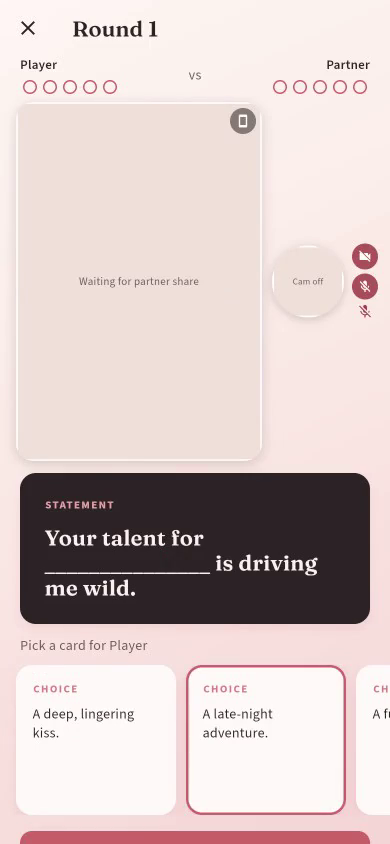
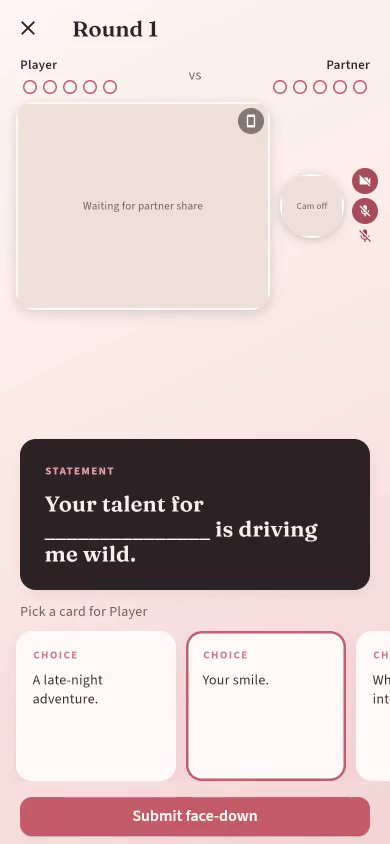
Cap expanded phone PiP so game controls stay on-screen.
Limit the strip camera height and scroll the body so reveal, reaction, and result actions remain reachable; refresh the demo GIF and store stills.

diff --git a/lib/ui/game_screen.dart b/lib/ui/game_screen.dart
@@ -411,12 +411,31 @@ class _GameScreenState extends State<GameScreen> {
         );
 
         if (layout == ReactionAvLayout.strip) {
-          // Phone strip grows into leftover height so controls sit at the bottom.
+          // Grow the phone camera strip into leftover space, but cap it so
+          // reveal / reaction / result controls stay on-screen.
+          final pipHeight = (constraints.maxHeight * 0.36)
+              .clamp(ReactionAvPanel.stripHeight, 220.0);
           return Column(
             crossAxisAlignment: CrossAxisAlignment.stretch,
             children: [
-              Expanded(child: panel),
-              Flexible(fit: FlexFit.loose, child: child),
+              SizedBox(height: pipHeight, child: panel),
+              Expanded(
+                child: LayoutBuilder(
+                  builder: (context, bodyConstraints) {
+                    return SingleChildScrollView(
+                      child: ConstrainedBox(
+                        constraints: BoxConstraints(
+                          minHeight: bodyConstraints.maxHeight,
+                        ),
+                        child: Align(
+                          alignment: Alignment.bottomCenter,
+                          child: child,
+                        ),
+                      ),
+                    );
+                  },
+                ),
+              ),
             ],
           );
         }

diff --git a/lib/ui/widgets/reaction_pip.dart b/lib/ui/widgets/reaction_pip.dart
@@ -106,7 +106,7 @@ class ReactionAvPanel extends StatelessWidget {
   static const double sidePeerHeight = 168;
   static const double stripHeight = 88;
   static const double selfSize = 48;
-  static const double selfSizeExpanded = 72;
+  static const double selfSizeExpanded = 64;
 
   /// Space reserved when overlaying a side panel on narrow content.
   static double sideReserveWidth(ReactionAvLayout layout) =>
